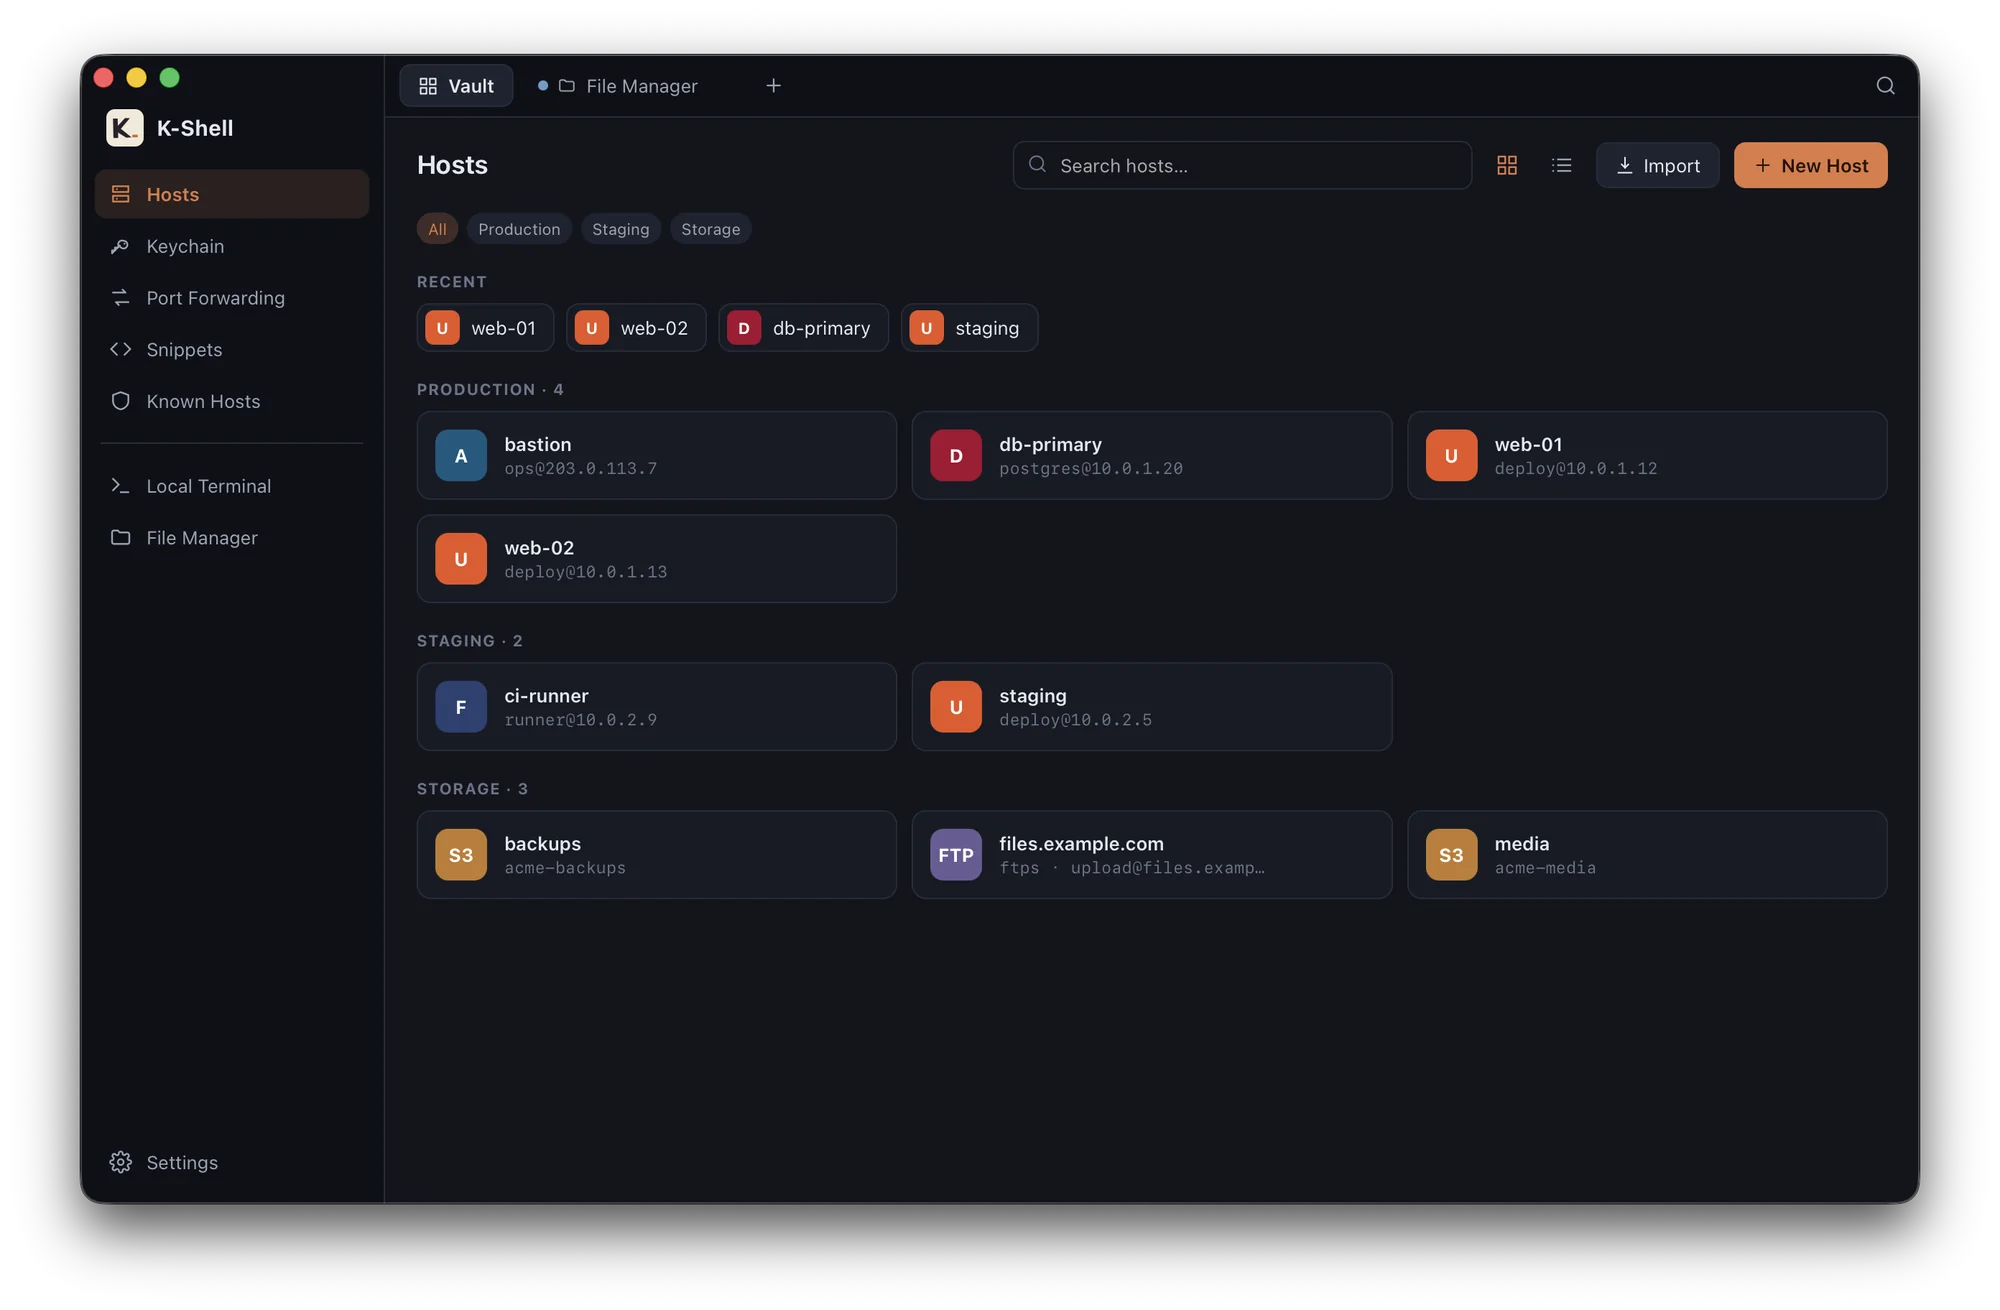
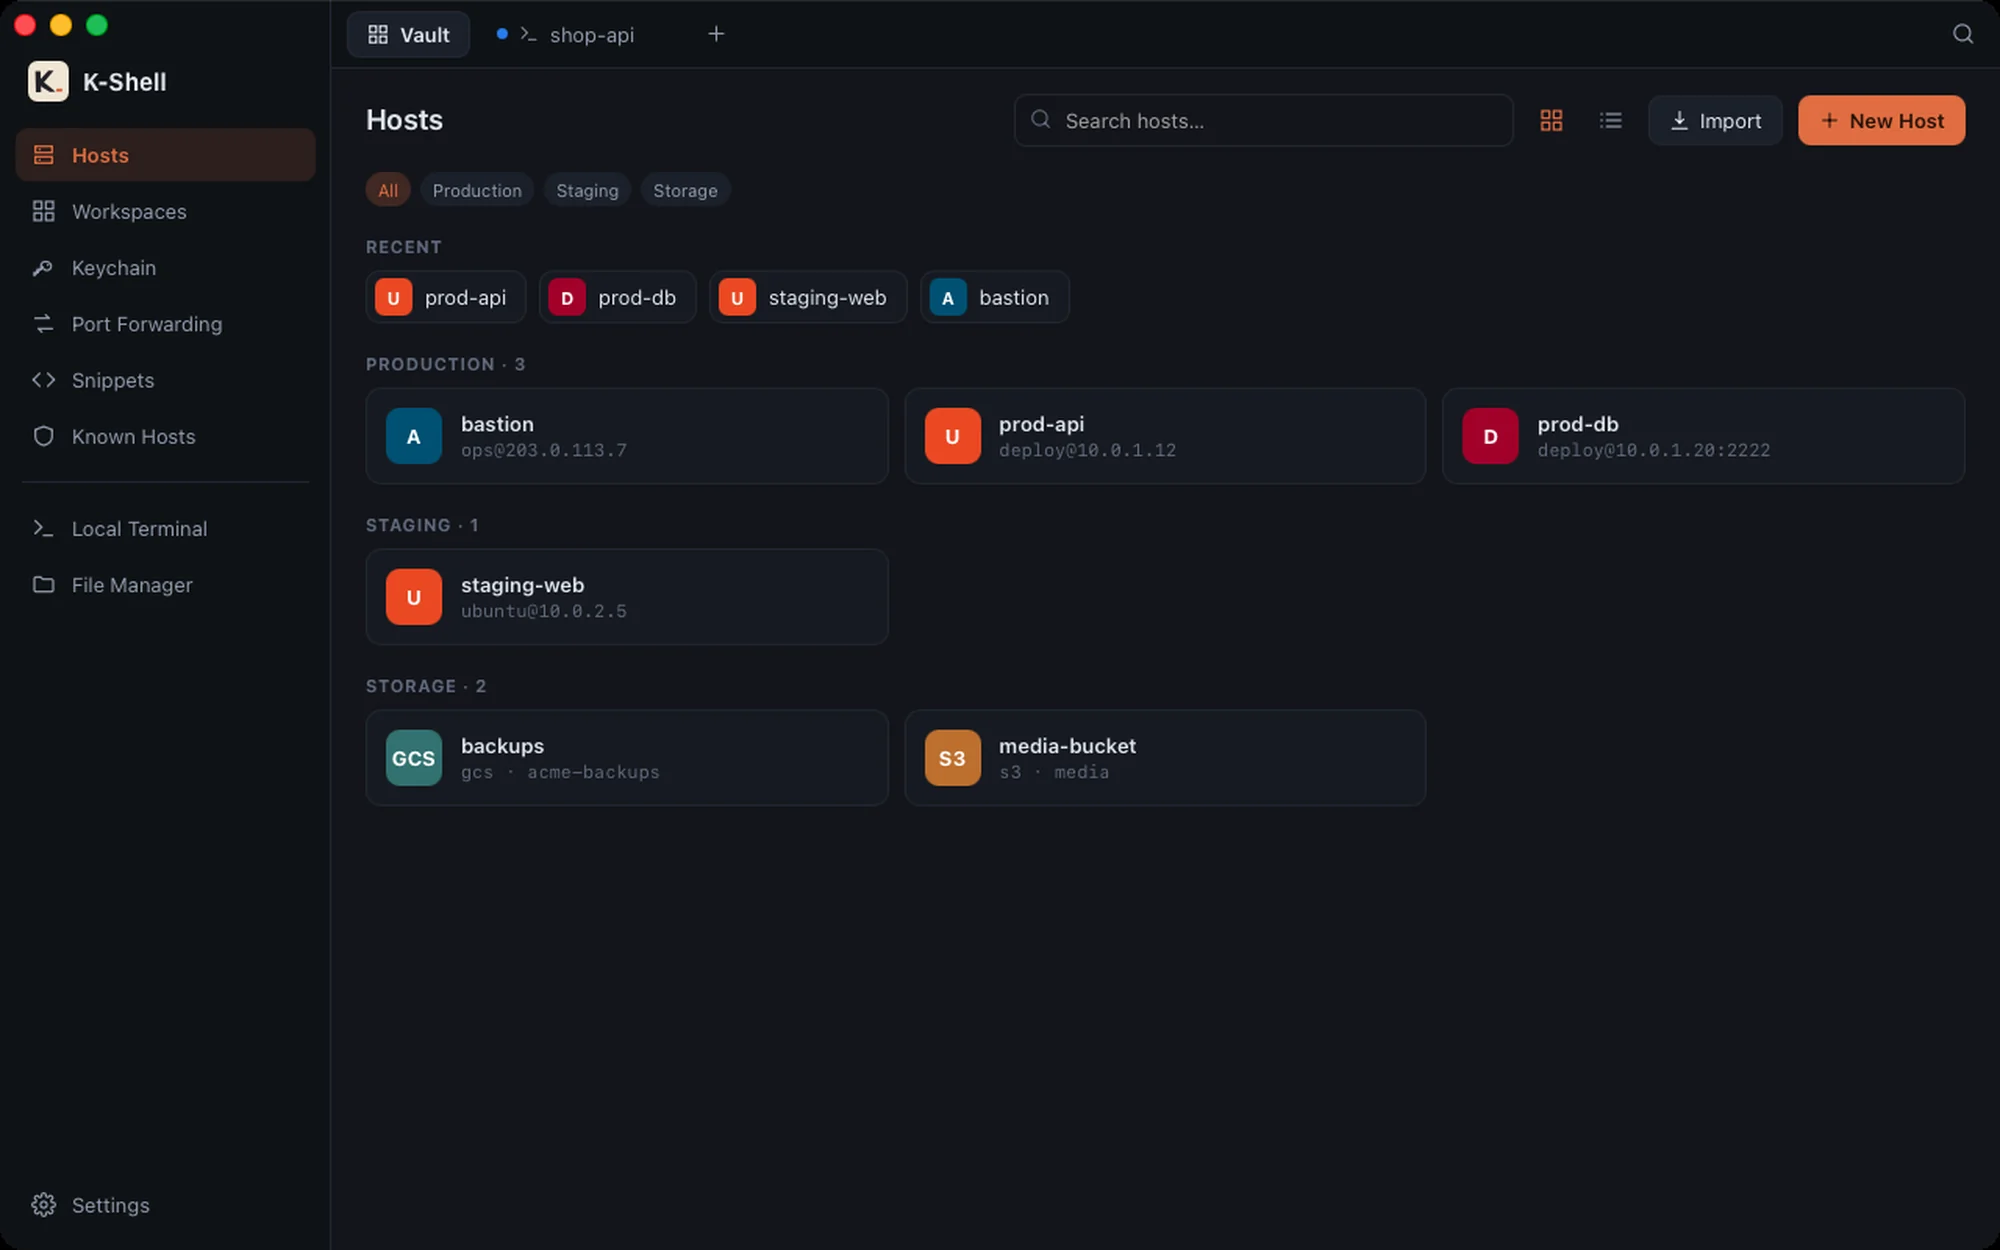
docs: demo GIF and current screenshots in the README
The top of the README now plays a 38-second demo recorded with demo data:
opening a workspace, autosuggestions, dragging split panes, merging a tab,
hiding the sidebar, port forwarding from a pasted ssh -L command and the
command palette. New screenshots of split panes, workspaces, port
forwarding and the host list; docs/images/social-preview.png is the
1280x640 image for the repository's social preview.

diff --git a/README.md b/README.md
@@ -20,7 +20,7 @@ Manage all your servers and remote storage from one fast, native app: no account
 
 <br />
 
-<img src="docs/images/terminal.webp" width="900" alt="K-Shell with split terminal panes" />
+<img src="docs/images/demo.gif" width="900" alt="K-Shell demo: opening a workspace, autosuggestions, dragging split panes, merging a tab, hiding the sidebar, port forwarding from a pasted ssh command and the command palette" />
 
 </div>
 
@@ -28,9 +28,13 @@ Manage all your servers and remote storage from one fast, native app: no account
 <summary><b>More screenshots</b></summary>
 <br />
 
+| Split panes | Workspaces | Port forwarding |
+|---|---|---|
+| <img src="docs/images/terminal.webp" alt="Three terminal panes from two workspace projects" /> | <img src="docs/images/workspaces.webp" alt="Workspaces with local project folders" /> | <img src="docs/images/port-forwarding.webp" alt="A forwarding rule filled in from a pasted ssh -L command" /> |
+
 | Hosts | File Manager | Command palette |
 |---|---|---|
-| <img src="docs/images/hosts.webp" alt="Host list grouped by project" /> | <img src="docs/images/file-manager.webp" alt="Dual-pane file manager with a transfer" /> | <img src="docs/images/palette.webp" alt="Command palette search" /> |
+| <img src="docs/images/hosts.webp" alt="Host list grouped by environment" /> | <img src="docs/images/file-manager.webp" alt="Dual-pane file manager with a transfer" /> | <img src="docs/images/palette.webp" alt="Command palette search" /> |
 
 </details>
 
